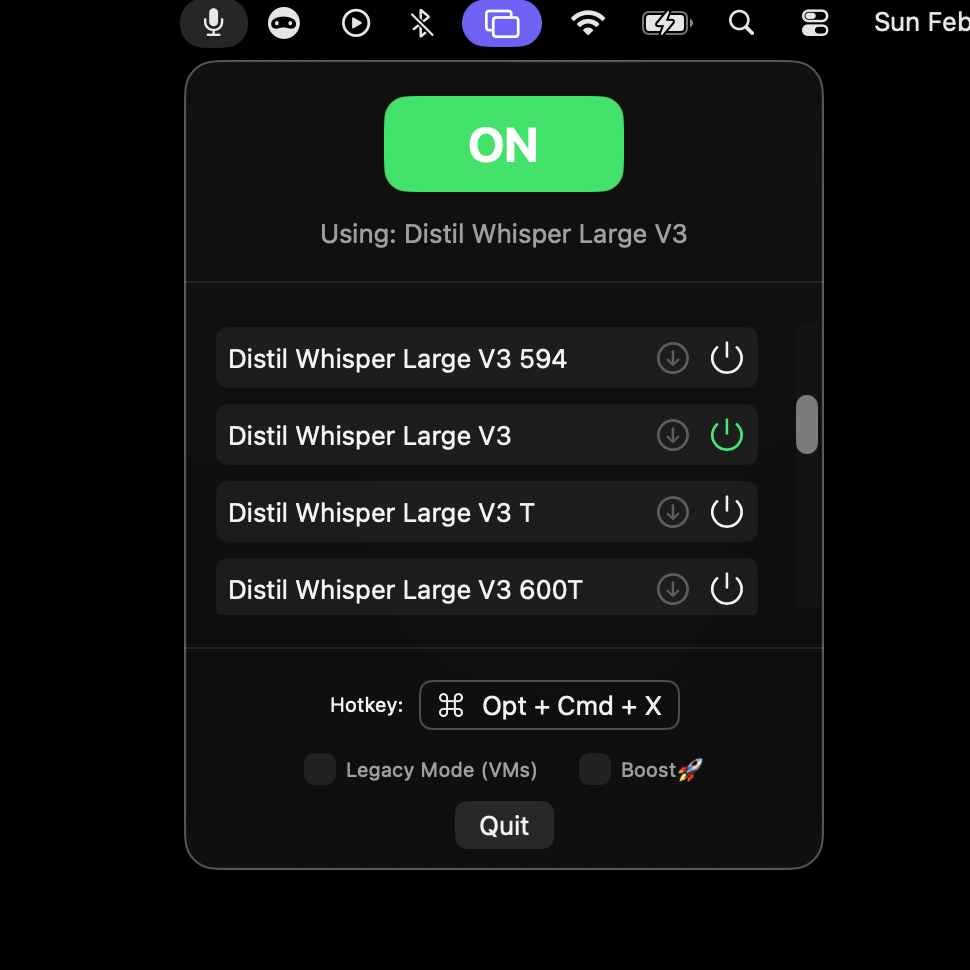
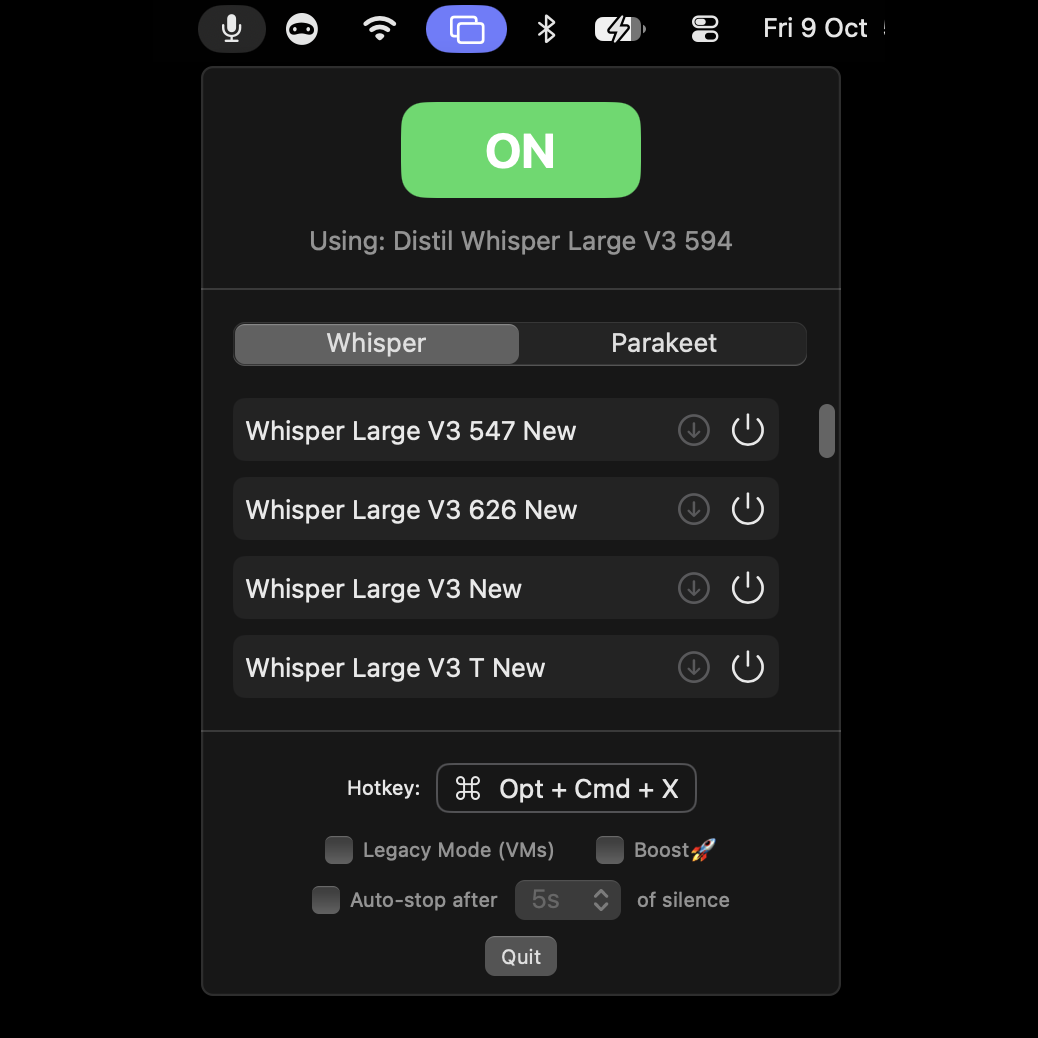
Website: update menu screenshot to show the engine switch

diff --git a/docs/index.html b/docs/index.html
@@ -56,7 +56,7 @@
 
             <div class="hero-gallery">
                 <div class="gallery-item">
-                    <img src="assets/menu-ss.png" alt="WisprWave Menu Bar Interface" class="hero-img">
+                    <img src="assets/menu-ss.png?v=2" alt="WisprWave Menu Bar Interface" class="hero-img">
                     <p class="caption">Quick Menu Access</p>
                 </div>
                 <div class="gallery-item">
